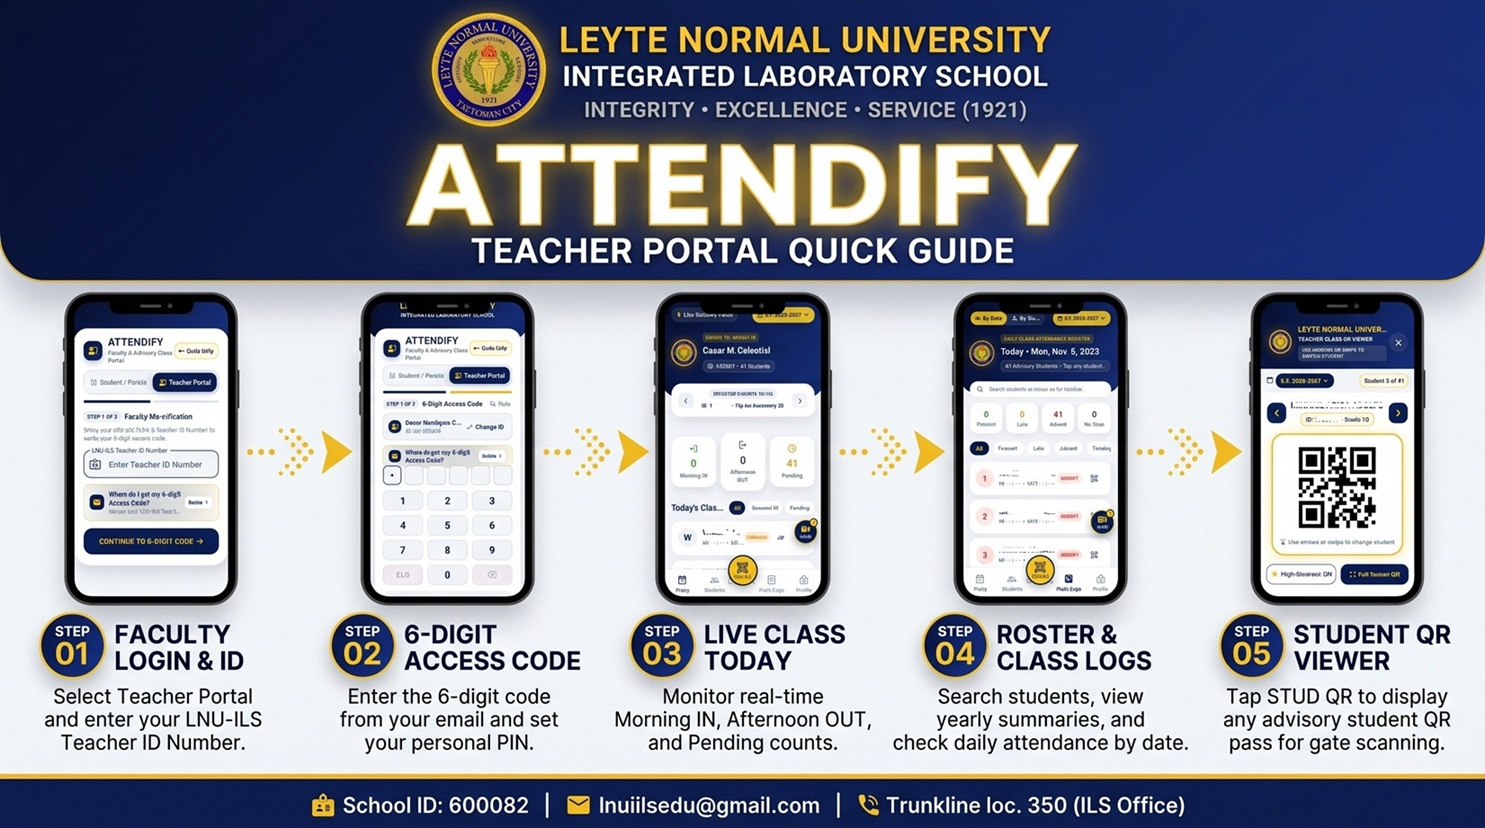
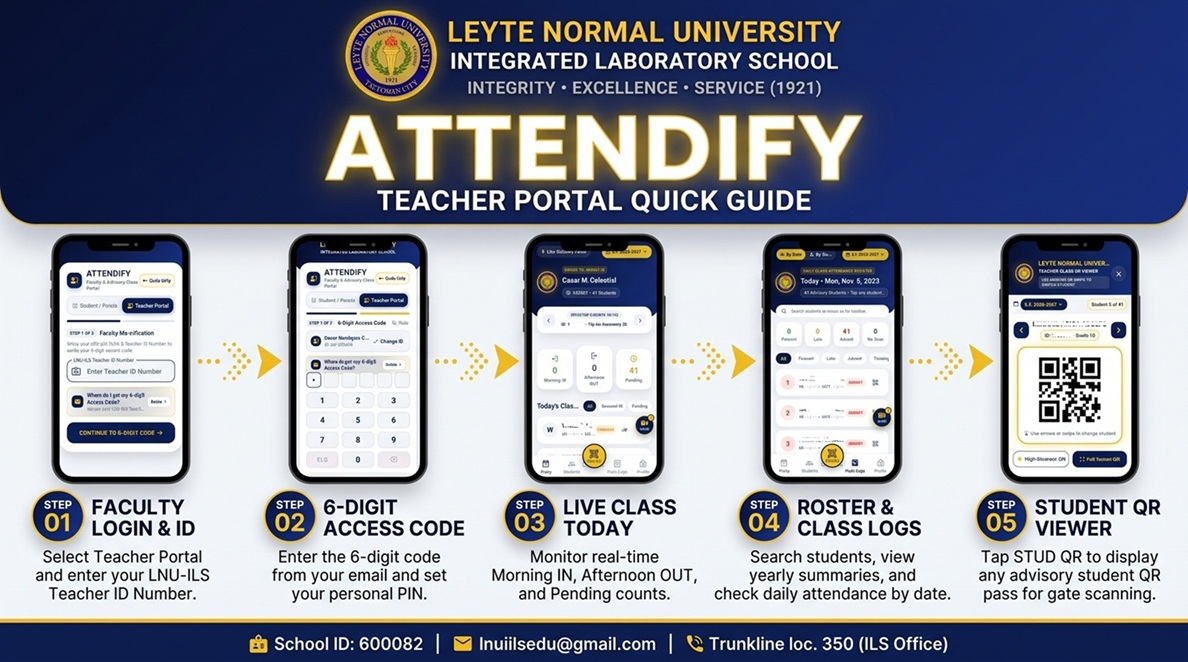
udpate

Changed region(s): [[0.4672, 0.9668, 0.4983, 0.997]]

diff --git a/resources/views/emails/attendify_access_code.blade.php b/resources/views/emails/attendify_access_code.blade.php
@@ -65,11 +65,6 @@
                                         <div style="font-size: 20px; font-weight: bold; color: #050D2E; margin-top: 4px; font-family: monospace;">
                                             {{ $idNumber }}
                                         </div>
-                                        @if(!empty($lrnNo))
-                                            <div style="font-size: 13px; color: #475569; margin-top: 3px;">
-                                                Or LRN: <strong>{{ $lrnNo }}</strong>
-                                            </div>
-                                        @endif
                                     </td>
                                 </tr>
                                 <tr>
@@ -175,7 +170,7 @@
 
                             <!-- Need Help Box -->
                             <div style="background-color: #f1f5f9; border-radius: 12px; padding: 14px 16px; margin-top: 12px; font-size: 13.5px; color: #334155; line-height: 1.5;">
-                                <strong>Need Help Installing?</strong> Feel free to ask your child's Homeroom Adviser or visit the <strong>LNU-ILS Office</strong> (Email: <strong>lnuilsedu@gmail.com</strong> • Trunkline loc. 350) and we will gladly assist you!
+                                <strong>Need Help Installing?</strong> Feel free to ask your child's Homeroom Adviser or visit the <strong>LNU-ILS Office</strong> (Email: <strong>attendify@lnu.edu.ph</strong>) and we will gladly assist you!
                             </div>
                         </td>
                     </tr>
